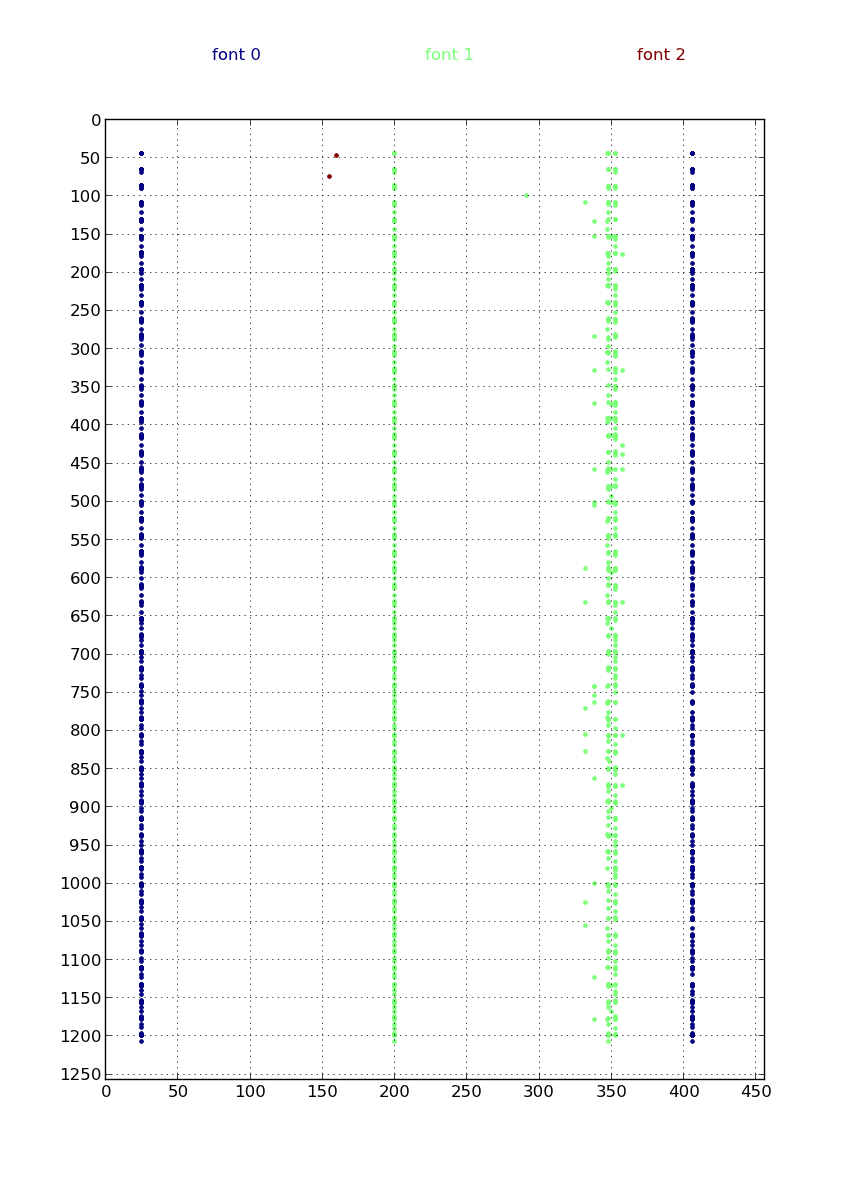
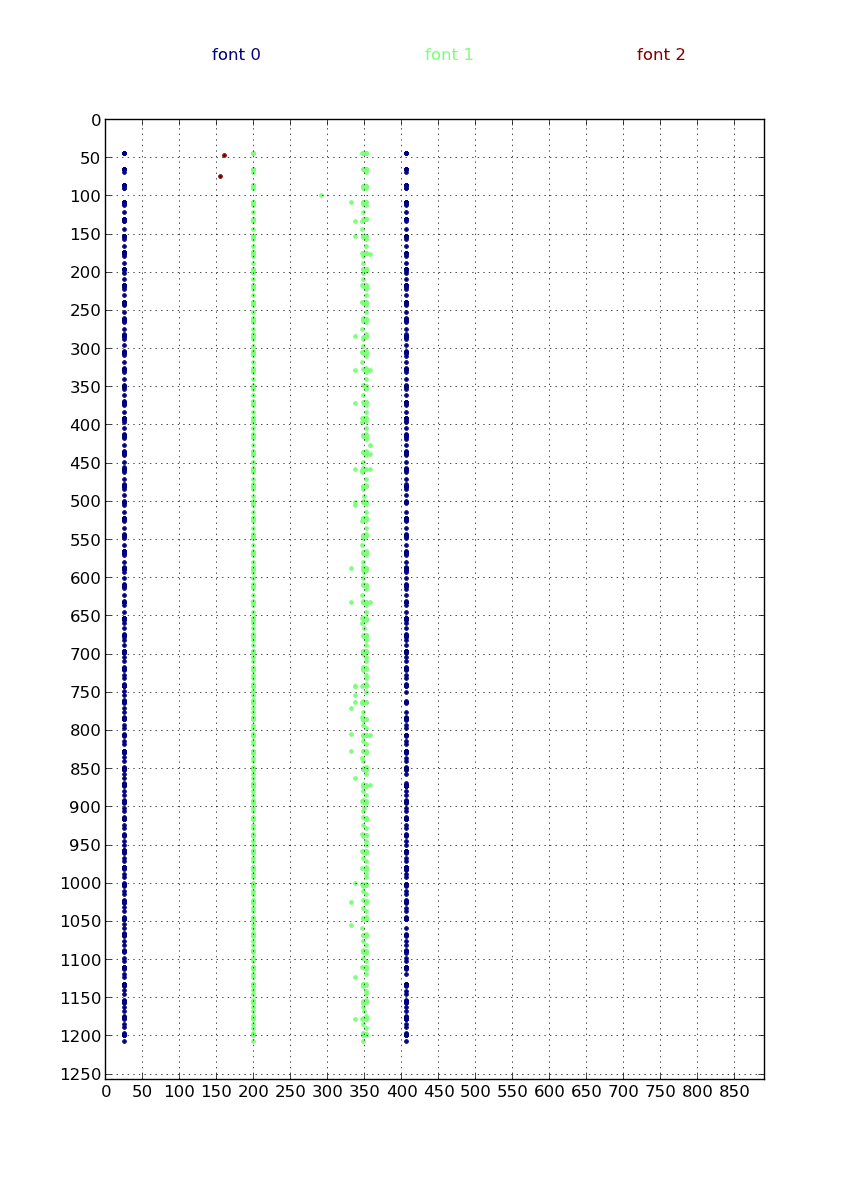
keep aspect ratio

diff --git a/deputes-rattachement/convert.py b/deputes-rattachement/convert.py
@@ -14,7 +14,6 @@ if len(sys.argv) > 2:
 topvals = {}
 leftvals = {}
 maxtop = 0
-maxleft = 0
 results = []
 headers = ['nom', 'prénom', 'groupe', 'rattachement_parti']
 record = ["", "", "", ""]
@@ -38,8 +37,6 @@ for line in (xml).split("\n"):
         topvals[font] = []
     topvals[font].append(top)
     left = int(attrs.group(2))
-    if left > maxleft:
-        maxleft = left
     if not font in leftvals:
         leftvals[font] = []
     leftvals[font].append(left)
@@ -70,9 +67,10 @@ else:
         color = cm.jet(1.5*font/nf)
         ax.plot(leftvals[font], topvals[font], 'ro', color=color, marker=".")
         plt.figtext((font+1.)/(nf+1), 0.95, "font %d" % font, color=color)
-    plt.xticks(np.arange(0, maxleft + 50, 50))
+    maxleft = (maxtop + 50) * 8.5 / 12
+    plt.xticks(np.arange(0, maxleft, 50))
     plt.yticks(np.arange(0, maxtop + 50, 50))
-    plt.xlim(0, maxleft + 50)
+    plt.xlim(0, maxleft)
     plt.ylim(0, maxtop + 50)
     plt.gca().invert_yaxis()
     fig.savefig("map.png")
